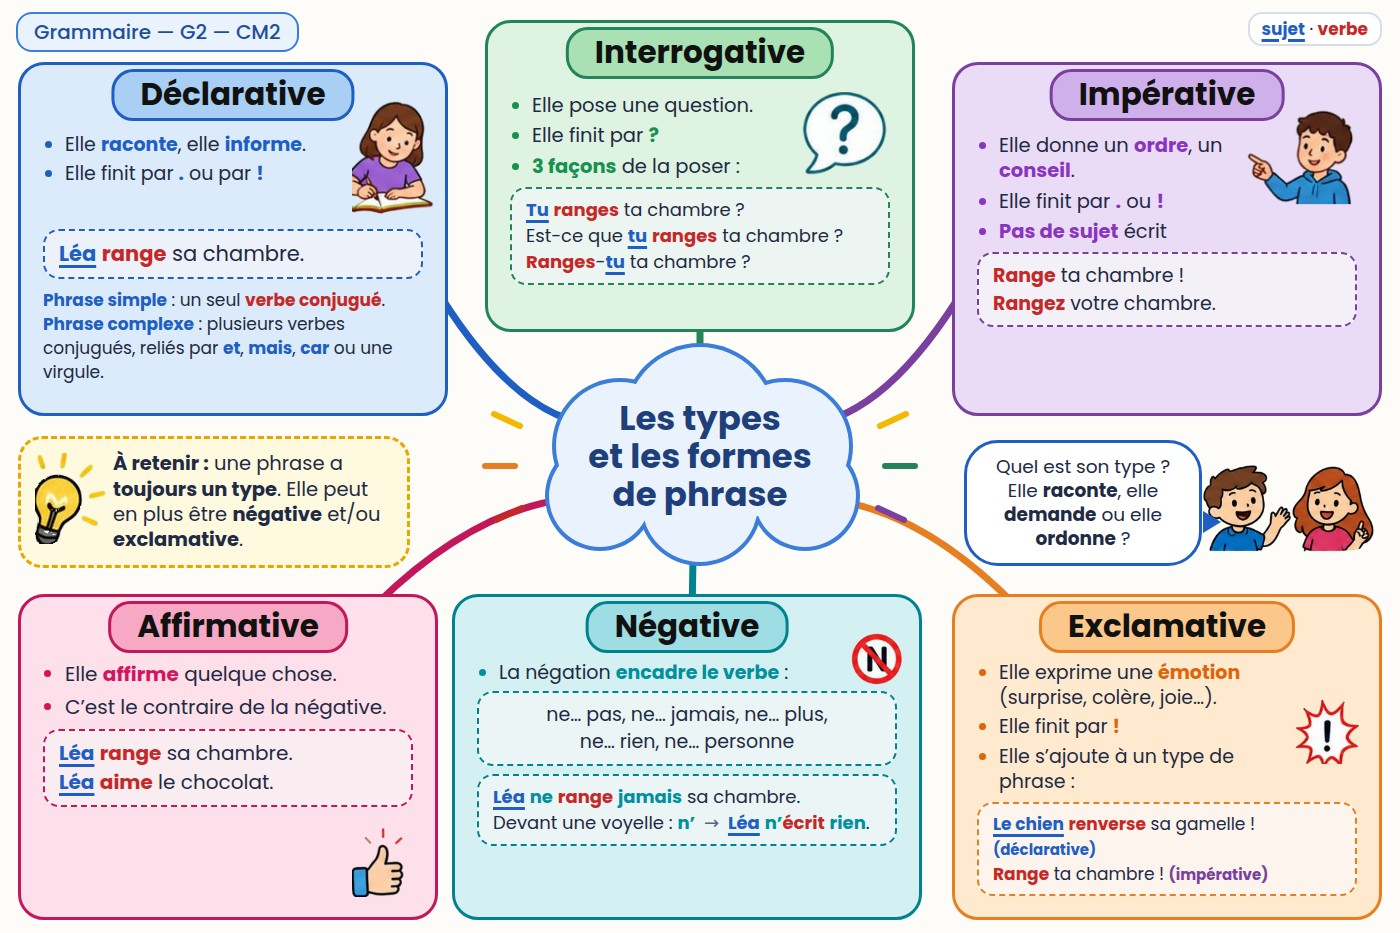
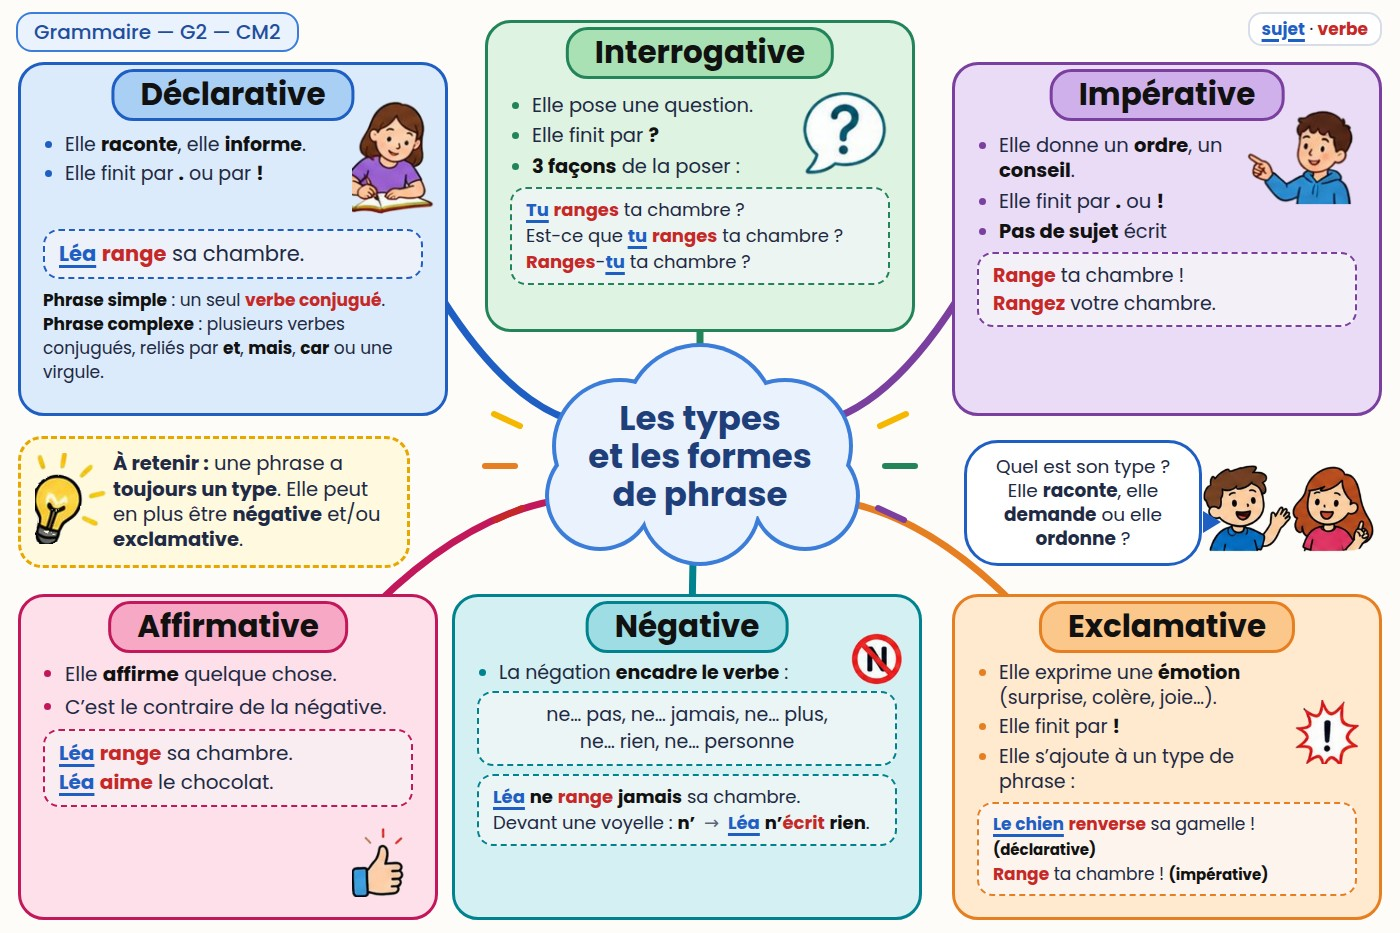
G2 : tout en noir sauf le sujet (bleu) et le verbe (rouge)

diff --git a/outils/common.css b/outils/common.css
@@ -54,7 +54,7 @@ table.tr td{padding:3px 6px;border-bottom:1.5px dashed #d8dde8}
 table.cj{border-collapse:collapse;font-size:19px;line-height:1.35}
 table.cj td{padding:1px 10px 1px 0;white-space:nowrap}
 
-.box.tint b{color:var(--k)}
-.box.tint li::marker{color:var(--k)}
+.box.tint b{color:#111}
+.box.tint li::marker{color:var(--c)}
 .box.tint .ex{background:color-mix(in srgb,var(--c) 8%,#fff)}
 .box.tint h2{color:#111}

diff --git a/outils/lecons/g2_cartes.py b/outils/lecons/g2_cartes.py
@@ -45,7 +45,7 @@ def carte(lid, chip, niveau):
         neg = '''<ul style="font-size:19px;line-height:1.3;margin-top:-10px"><li>La négation <b>encadre le verbe</b> :</li></ul><div class="ex" style="font-size:19px;margin-top:4px;text-align:center">ne… pas, ne… jamais, ne… plus,<br>ne… rien, ne… personne</div>''' + \
               EX(f'{S.format("Léa")} <b>ne</b> {V.format("range")} <b>jamais</b> sa chambre.<br>Devant une voyelle : <b>n’</b> <span class="arrow">→</span> {S.format("Léa")} <b>n’</b>{V.format("écrit")} <b>rien</b>.', 18)
     exc = '''<ul style="padding-right:84px;font-size:19px;line-height:1.3;margin-top:-10px"><li>Elle exprime une <b>émotion</b> (surprise, colère, joie…).</li><li>Elle finit par <b>!</b></li><li>Elle s’ajoute à un type de phrase :</li></ul>''' + \
-          EX(f'{S.format("Le chien")} {V.format("renverse")} sa gamelle ! <span style="font-size:15px;color:#1f5fc4;font-weight:700">(déclarative)</span><br>{V.format("Range")} ta chambre ! <span style="font-size:15px;color:#7b3fa0;font-weight:700">(impérative)</span>', 17)
+          EX(f'{S.format("Le chien")} {V.format("renverse")} sa gamelle ! <span style="font-size:15px;color:#111;font-weight:700">(déclarative)</span><br>{V.format("Range")} ta chambre ! <span style="font-size:15px;color:#111;font-weight:700">(impérative)</span>', 17)
     boxes = [
      dict(id='decl', col='bleu', pal=PALG['bleu'], geom=TL, ext=24, title=tl_title, figs=[('girl', 352, 98, 84)], html=decl, hstyle='top:30px'),
      dict(id='inter', col='vert', pal=PALG['vert'], geom=TC, ext=24, title=inter_t, hstyle='top:30px', html=inter, figs=[('q', 800, 92, 90)]),

diff --git a/CLAUDE.md b/CLAUDE.md
@@ -52,7 +52,7 @@ Site des leçons interactives (ceintures de français CM1) publié avec GitHub P
 - Sommaire par classe : boutons CE2 / CM1 / CM2 (adresse `#niveau=CE2`…). Une leçon sans champ `niveau`
   est rangée en CM1 ; pour une leçon d'une autre classe, ajouter `niveau:'CE2'` ou `niveau:'CM2'` dans `TRACES`.
 - Page d’une leçon (13/11/2026, demande de l’enseignante) : plus d’en-tête (ceinture + titre + « Clique sur une partie… »), redondant avec le titre du nuage ; le titre reste dans un `<h2 class="vh">` (lecteurs d’écran).
-- Cartes de G2 (13/11/2026) : les trois (`G2`, `G2-CE2`, `G2-CM2`) sont fabriquées par `outils/lecons/g2_cartes.py` (même apparence ; dessins des enfants et pictos = images découpées de la carte CM1 d’origine, `outils/img/g2/*.png`, jamais redessinés). `python3 outils/lecons/g2_cartes.py`, puis copier `outils/sortie/G2*_carte.jpeg` dans `images/`. Couleurs soutenues comme G1 (`PALG`, option `pal` de `build`, classe `.box.tint`) et mots forts / sujet (bleu souligné) / verbe (rouge) colorés ; éléments repris de G1 (note « À retenir » avec l’ampoule, duo d’enfants qui parle dans une bulle : images `outils/img/g2/ampoule.png`, `duo.png` découpées de G1, `extra_html` de `build`) ; nuage central descendu (`cloud_dy=26`), numéros des zones à l’intérieur du cadre (CSS `.zone .num`, en haut à gauche). Cadres pleins = zones cliquables : option `ext` de `build` (mapgen.py : le haut du cadre monte de `ext` px, le titre est posé à l’intérieur, `hstyle=top:30px`), zones de G2 = cadres exacts.
+- Cartes de G2 (13/11/2026) : les trois (`G2`, `G2-CE2`, `G2-CM2`) sont fabriquées par `outils/lecons/g2_cartes.py` (même apparence ; dessins des enfants et pictos = images découpées de la carte CM1 d’origine, `outils/img/g2/*.png`, jamais redessinés). `python3 outils/lecons/g2_cartes.py`, puis copier `outils/sortie/G2*_carte.jpeg` dans `images/`. Couleurs soutenues comme G1 (`PALG`, option `pal` de `build`, classe `.box.tint`) ; seuls le sujet (bleu souligné) et le verbe (rouge) sont en couleur, titres et mots forts en noir (demande du 13/11/2026) ; éléments repris de G1 (note « À retenir » avec l’ampoule, duo d’enfants qui parle dans une bulle : images `outils/img/g2/ampoule.png`, `duo.png` découpées de G1, `extra_html` de `build`) ; nuage central descendu (`cloud_dy=26`), numéros des zones à l’intérieur du cadre (CSS `.zone .num`, en haut à gauche). Cadres pleins = zones cliquables : option `ext` de `build` (mapgen.py : le haut du cadre monte de `ext` px, le titre est posé à l’intérieur, `hstyle=top:30px`), zones de G2 = cadres exacts.
 - CM2 : mêmes numéros, mêmes couleurs, mêmes notions qu'en CM1 (choix de l'enseignante, octobre 2026).
   Une leçon CM2 (id `XX-CM2`, code affiché `XX`) = la leçon CM1 + les écrans de `CM2_PLUS` (étiquette « CM2 »,
   placés après le dernier écran de leur section) + un encadré « En CM2, j'apprends aussi » sous la carte.
